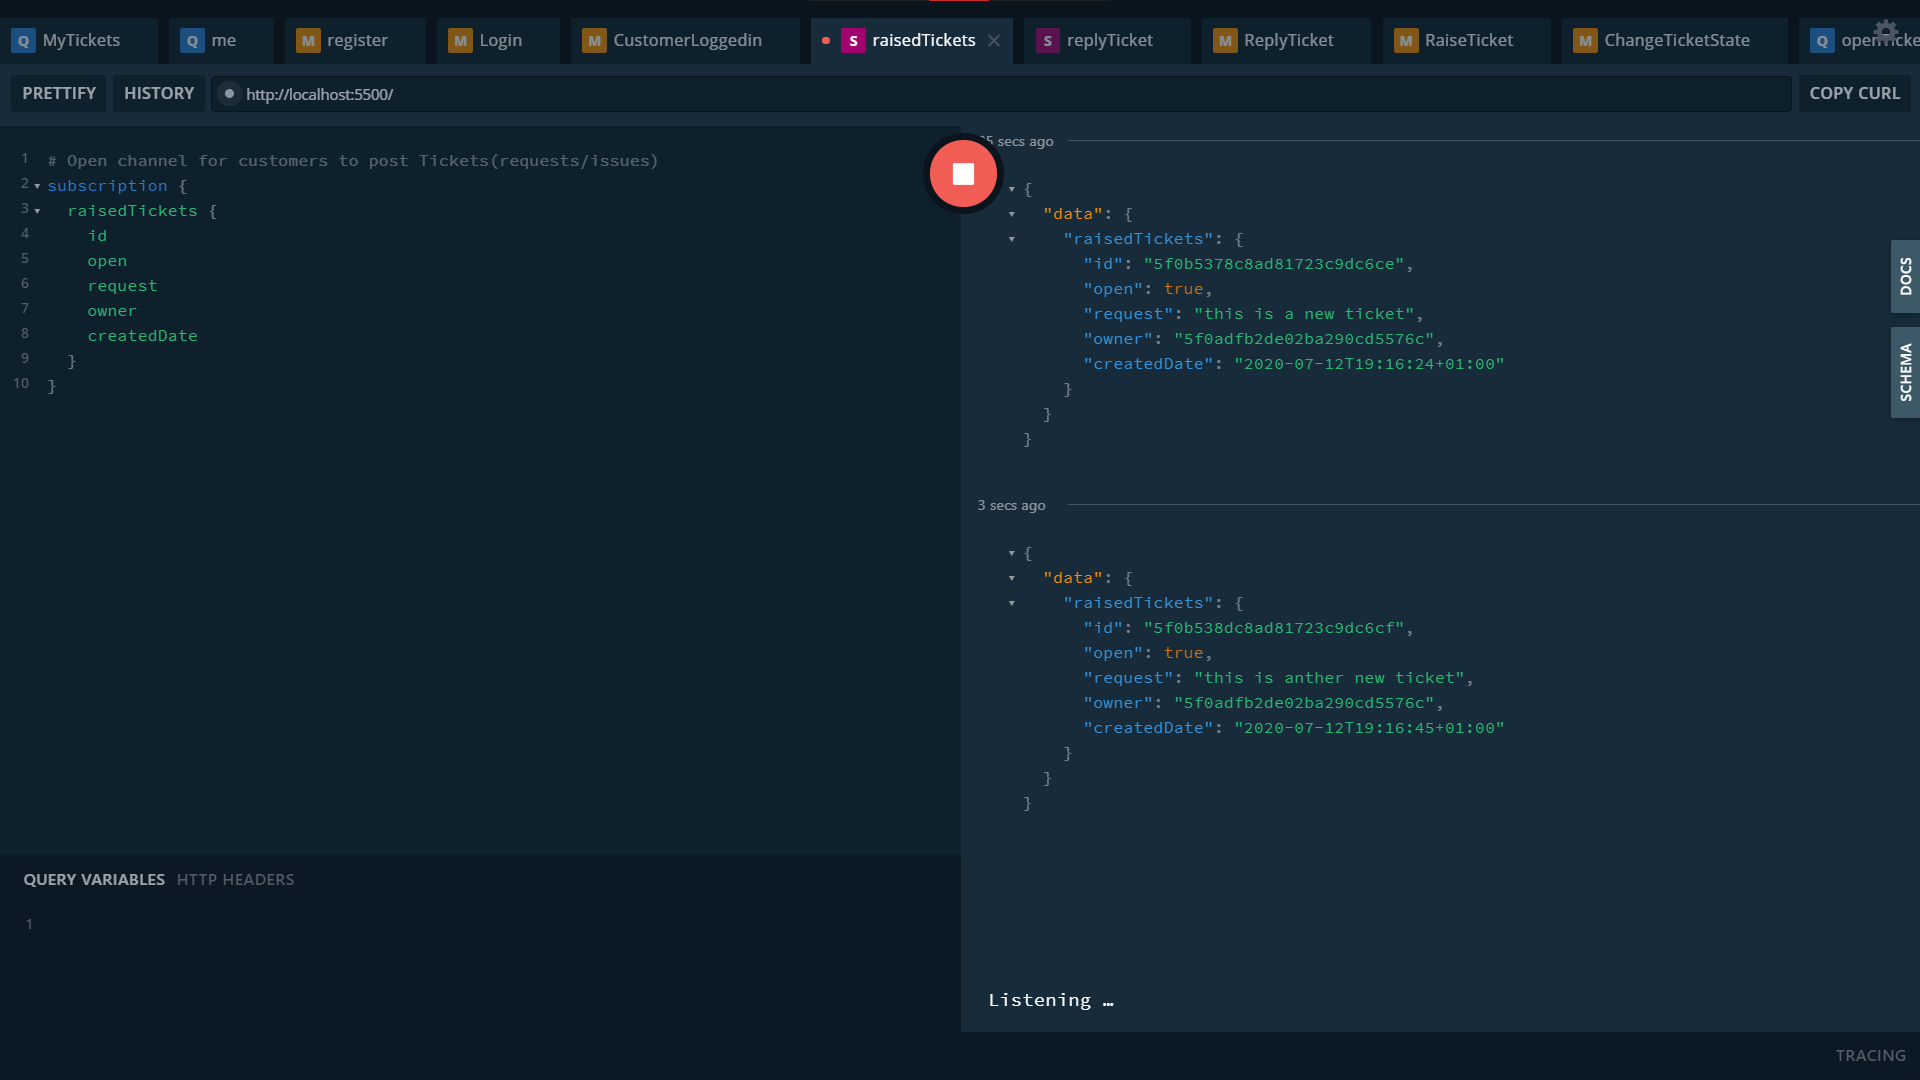
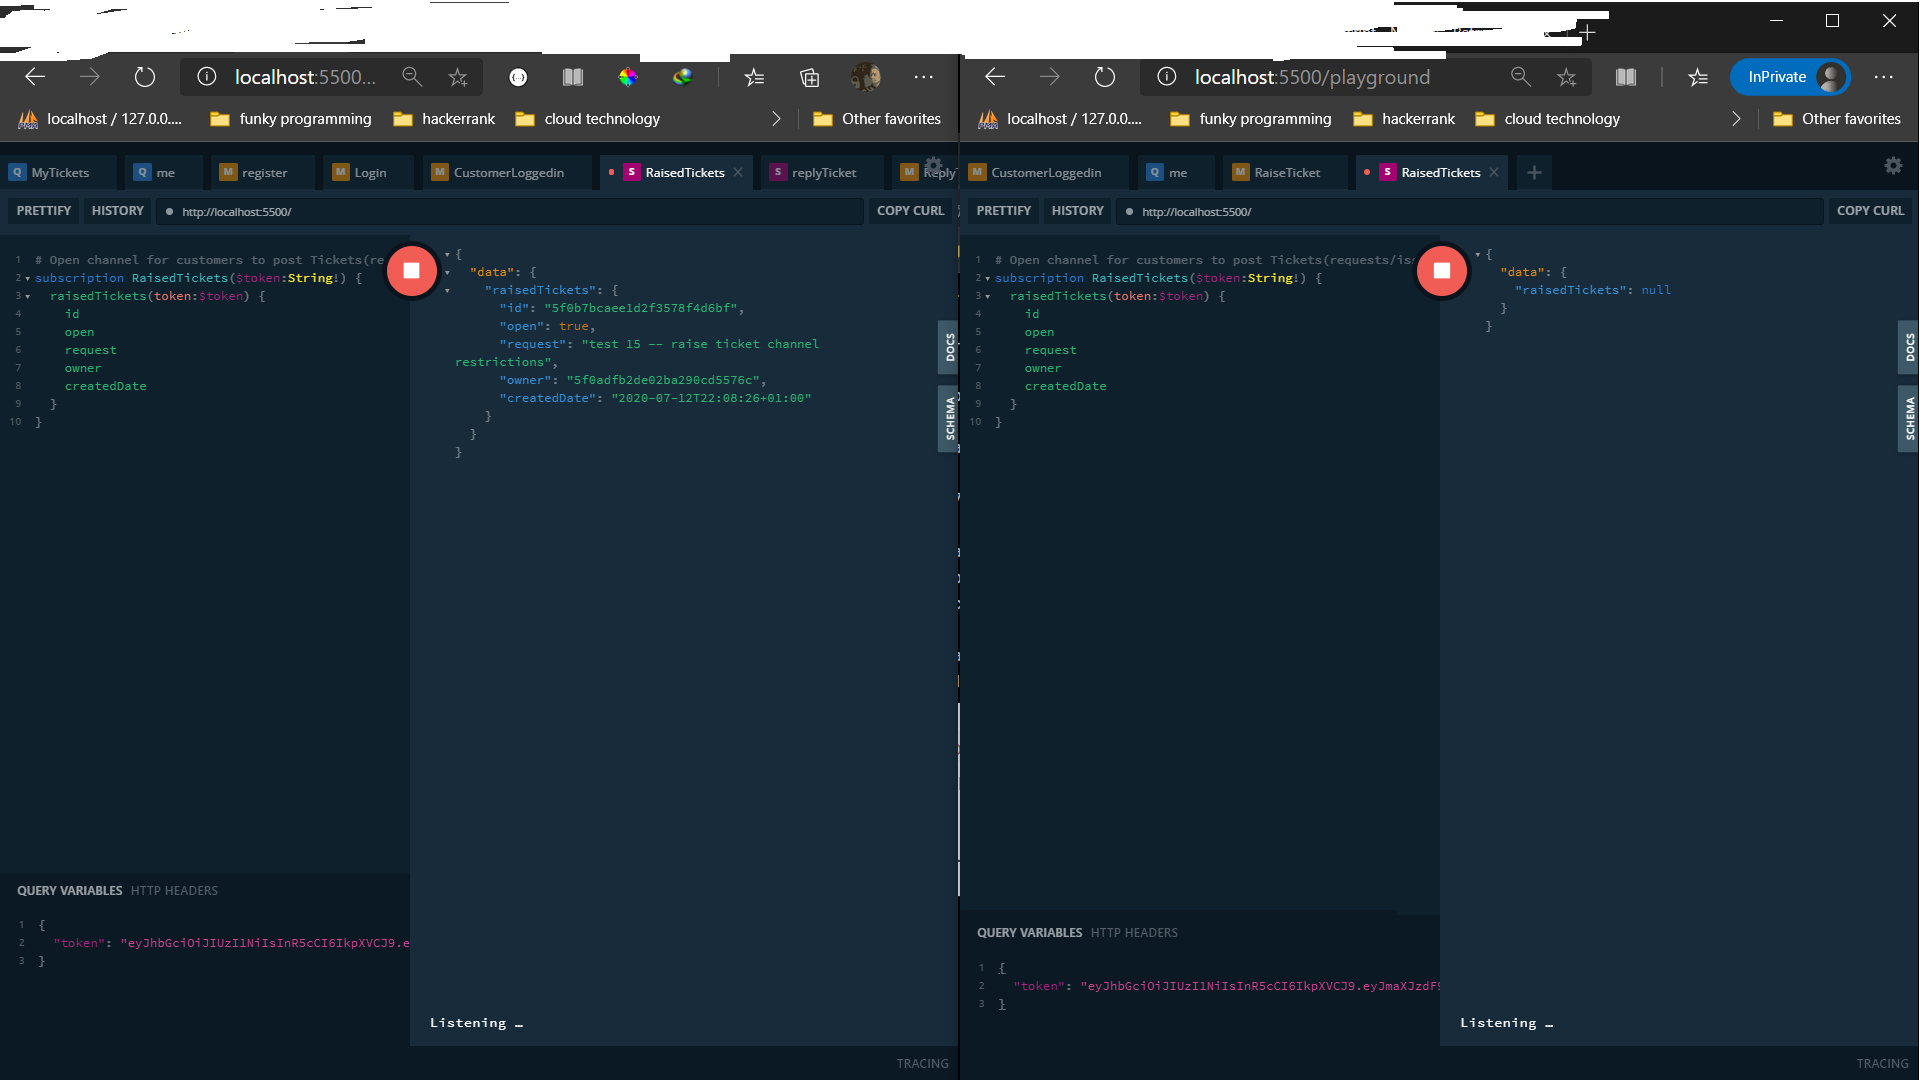
restrict admin creation | (*￣3￣)╭

diff --git a/src/GraphQL/Modules/tickets/resolvers.ts b/src/GraphQL/Modules/tickets/resolvers.ts
@@ -14,6 +14,7 @@ import {
 } from "../../../Utils/constants";
 import TicketingService from "../../../Services/tickets";
 import { ObjectID } from "mongodb";
+import { decodeToken } from "../../../Utils/token";
 
 /**
  * @function              Partial, curried functions
@@ -150,6 +151,15 @@ export const resolvers: ResolverMap = {
   Subscription: {
     raisedTickets: {
       // by design let every-one see new raised Tickets or not????????
+      resolve: async (payload, args, context, info) => {
+        const { invalid, decodedValue } = await decodeToken(args.token);
+
+        if (!invalid && decodedValue.role == 1) {
+          return payload.raisedTickets;
+        }
+
+        return;
+      },
       subscribe: (_, __, { pubSub }) => {
         return pubSub.asyncIterator(PUB_SUB_RAISE_TICKET);
       },

diff --git a/src/GraphQL/Types/schema.d.ts b/src/GraphQL/Types/schema.d.ts
@@ -240,12 +240,17 @@ replyTicket: IITicketComment;
 /**
  * Add a new Ticket to raise-new-ticket channel
 * Tickets can only be raised by customers?!
+* Only admins can view this channel
  */
-raisedTickets: ITicket;
+raisedTickets: ITicket | null;
 }
 
 interface IReplyTicketOnSubscriptionArguments {
 ticketId: string;
+}
+
+interface IRaisedTicketsOnSubscriptionArguments {
+token: string;
 }
 
 interface IFile {

diff --git a/src/Test/utils/callSetUp.js b/src/Test/utils/callSetUp.js
@@ -3,10 +3,10 @@ require("ts-node/register");
 // REFERENCE TYPESCRIPT MODULES
 const { setup } = require("./setup");
 
-module.exports = async function() {
-  // CALL TS MODULE INTIALIZE METHODS
-  if (!process.env.TEST_HOST){
-   await setup();
+module.exports = async function () {
+  // CALL TS MODULE INITIALIZE METHODS
+  if (!process.env.TEST_HOST) {
+    await setup();
   }
   return null;
 };

diff --git a/src/Utils/token.ts b/src/Utils/token.ts
@@ -66,6 +66,7 @@ export const decodeToken = async (encrypt_id: string, redis?: Redis) => {
     };
     return returnValue;
   } catch (err) {
+    console.log("error", err);
     return { invalid: true };
   }
 };
